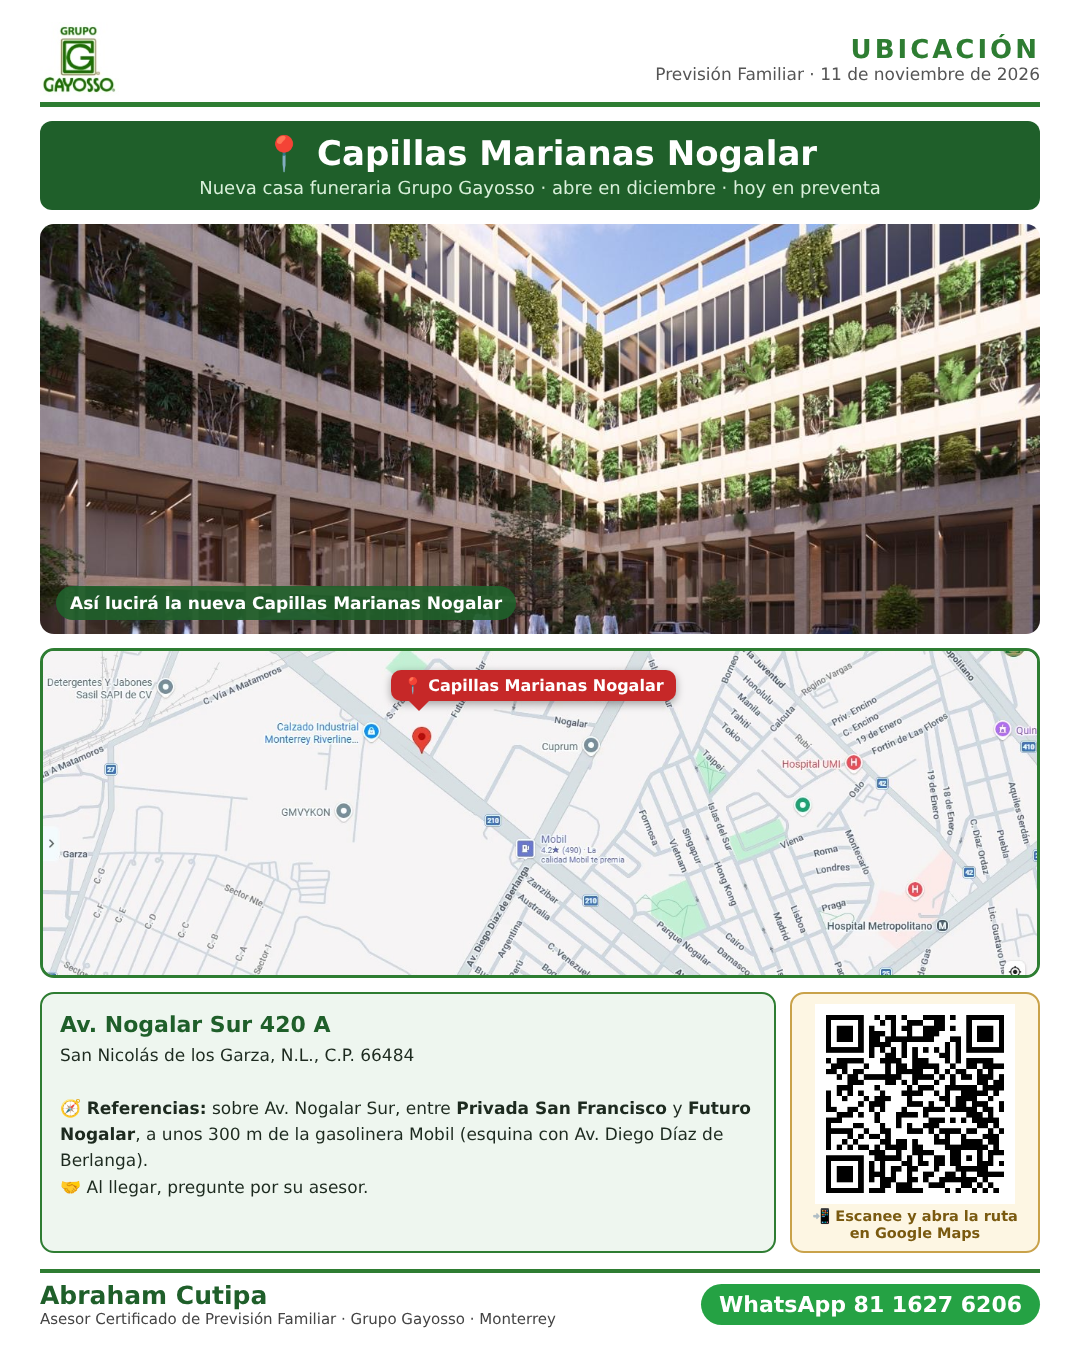
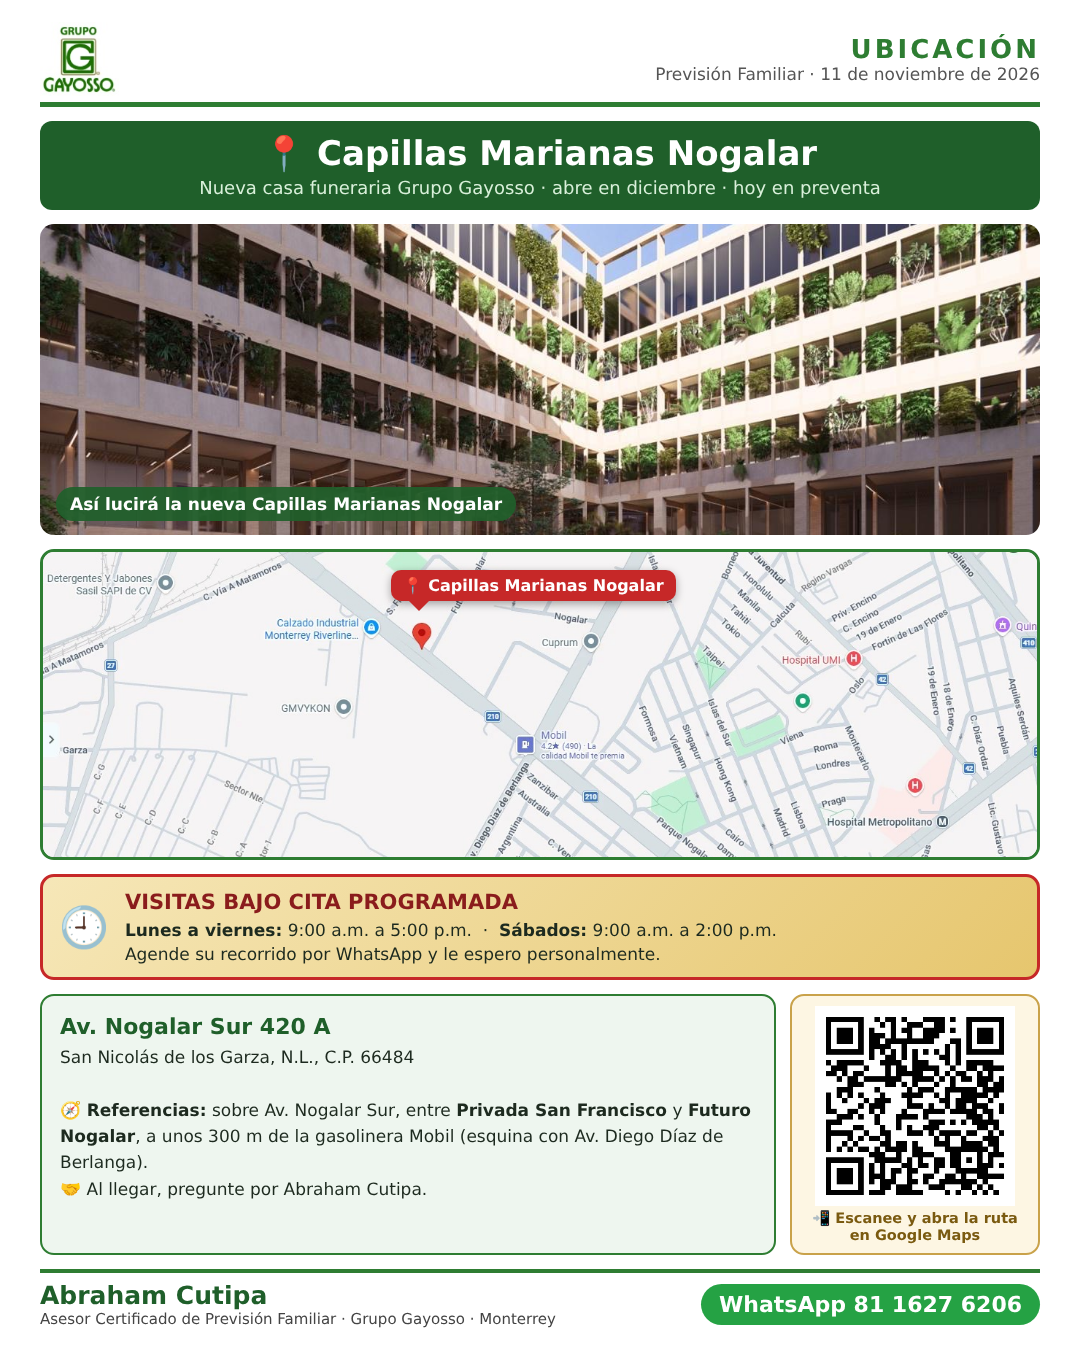
Ubicación Nogalar: horario de visitas bajo cita
Claude-Session: https://claude.ai/code/session_01PccRGVGwaaPKDitcWkgoNs

diff --git a/propuesta/ubicacion_nogalar.html b/propuesta/ubicacion_nogalar.html
@@ -4,7 +4,7 @@
 .top{display:flex;align-items:center;justify-content:space-between;border-bottom:5px solid #2e7d32;padding-bottom:6px}.top img{height:74px}
 .top .k{font-size:26px;font-weight:bold;color:#2e7d32;letter-spacing:3px;text-align:right}.top .d{font-size:17px;color:#555;text-align:right}
 .band{background:#1f5f2a;color:#fff;border-radius:12px;padding:12px;text-align:center}.band .t{font-size:34px;font-weight:bold}.band .s{font-size:18px;color:#d9f0da;margin-top:4px}
-.ph{height:410px;border-radius:14px;overflow:hidden;position:relative}.ph img{width:100%;height:100%;object-fit:cover}
+.ph{height:330px;border-radius:14px;overflow:hidden;position:relative}.ph img{width:100%;height:100%;object-fit:cover}
 .tag{position:absolute;left:16px;bottom:14px;background:rgba(31,95,42,.92);color:#fff;font-weight:bold;font-size:17px;padding:7px 14px;border-radius:20px}
 .map{height:330px;border-radius:14px;overflow:hidden;border:3px solid #2e7d32;position:relative}.map img{width:100%;height:100%;object-fit:cover;object-position:40% 25%}
 .pin{position:absolute;left:calc(38% - 30px);top:6%;background:#c62828;color:#fff;font-weight:bold;font-size:16px;padding:6px 12px;border-radius:10px;box-shadow:0 3px 8px rgba(0,0,0,.35);white-space:nowrap}
@@ -20,8 +20,9 @@
 <div class="band"><div class="t">📍 Capillas Marianas Nogalar</div><div class="s">Nueva casa funeraria Grupo Gayosso · abre en diciembre · hoy en preventa</div></div>
 <div class="ph"><img src="nogalar_render_dia.jpg"><div class="tag">Así lucirá la nueva Capillas Marianas Nogalar</div></div>
 <div class="map"><img src="nogalar_mapa.jpg"><div class="pin">📍 Capillas Marianas Nogalar</div></div>
+<div style="background:linear-gradient(135deg,#f6e7b8,#e6c66e);border:3px solid #c62828;border-radius:14px;padding:10px 16px;display:flex;align-items:center;gap:16px"><div style="font-size:40px">🕘</div><div style="font-size:17px;line-height:1.45"><b style="font-size:21px;color:#8a1c1c">VISITAS BAJO CITA PROGRAMADA</b><br><b>Lunes a viernes:</b> 9:00 a.m. a 5:00 p.m. &nbsp;·&nbsp; <b>Sábados:</b> 9:00 a.m. a 2:00 p.m.<br>Agende su recorrido por WhatsApp y le espero personalmente.</div></div>
 <div class="row">
- <div class="addr"><b class="t">Av. Nogalar Sur 420 A</b><br>San Nicolás de los Garza, N.L., C.P. 66484<br><br>🧭 <b>Referencias:</b> sobre Av. Nogalar Sur, entre <b>Privada San Francisco</b> y <b>Futuro Nogalar</b>, a unos 300 m de la gasolinera Mobil (esquina con Av. Diego Díaz de Berlanga).<br>🤝 Al llegar, pregunte por su asesor.</div>
+ <div class="addr"><b class="t">Av. Nogalar Sur 420 A</b><br>San Nicolás de los Garza, N.L., C.P. 66484<br><br>🧭 <b>Referencias:</b> sobre Av. Nogalar Sur, entre <b>Privada San Francisco</b> y <b>Futuro Nogalar</b>, a unos 300 m de la gasolinera Mobil (esquina con Av. Diego Díaz de Berlanga).<br>🤝 Al llegar, pregunte por Abraham Cutipa.</div>
  <div class="qr"><img src="nogalar_qr.png">📲 Escanee y abra la ruta en Google Maps</div>
 </div>
 <div class="foot"><div><div class="n">Abraham Cutipa</div><div class="r">Asesor Certificado de Previsión Familiar · Grupo Gayosso · Monterrey</div></div><div class="w">WhatsApp 81 1627 6206</div></div>

diff --git a/CLAUDE.md b/CLAUDE.md
@@ -324,7 +324,7 @@ Usar SIEMPRE en imágenes y textos de propuesta (columna lateral "¿Qué incluye
 ## Direcciones Gayosso Monterrey y cobertura nacional (usar en propuestas cuando se requiera)
 
 - *Capillas Marianas* (agencia GCM8, Agencia A): Av. Lázaro Cárdenas No. 1005 Pte., Col. Loma Larga, San Pedro Garza García, N.L. (la presentación oficial de Gayosso usa C.P. 64710; antes teníamos 66220: usar 64710).
-- *Capillas Marianas Nogalar* ("Marianas Nogalar", nueva casa funeraria, APERTURA DICIEMBRE 2026; ya se puede visitar con el asesor). Dirección OFICIAL (presentación Gayosso 2026-11-06): *Av. Nogalar Sur 420 A, San Nicolás de los Garza, C.P. 66484, N.L.* UBICACIÓN EXACTA (pin del usuario 2026-11-11): 25°43'04.5"N 100°17'11.7"W = 25.7179279, -100.2865906; liga para clientes: https://www.google.com/maps?q=25.7179279,-100.2865906 (usar SIEMPRE esta en vez de búsquedas por dirección). Referencias: sobre Av. Nogalar Sur entre Privada San Francisco y Futuro Nogalar, ~300 m de la gasolinera Mobil (esq. Av. Diego Díaz de Berlanga). Imagen de ubicación con QR: propuesta/ubicacion_nogalar.html. (antes usábamos "#440, entre Futuro Nogalar y Privada San Francisco": corregir a 420 A). Argumento en visitas: conocer las dos instalaciones (Capillas Marianas y la nueva Nogalar).
+- *Capillas Marianas Nogalar* ("Marianas Nogalar", nueva casa funeraria, APERTURA DICIEMBRE 2026; ya se puede visitar con el asesor). Dirección OFICIAL (presentación Gayosso 2026-11-06): *Av. Nogalar Sur 420 A, San Nicolás de los Garza, C.P. 66484, N.L.* UBICACIÓN EXACTA (pin del usuario 2026-11-11): 25°43'04.5"N 100°17'11.7"W = 25.7179279, -100.2865906; liga para clientes: https://www.google.com/maps?q=25.7179279,-100.2865906 (usar SIEMPRE esta en vez de búsquedas por dirección). Referencias: sobre Av. Nogalar Sur entre Privada San Francisco y Futuro Nogalar, ~300 m de la gasolinera Mobil (esq. Av. Diego Díaz de Berlanga). Imagen de ubicación con QR: propuesta/ubicacion_nogalar.html. VISITAS BAJO CITA PROGRAMADA: lunes a viernes 9:00–17:00, sábados 9:00–14:00 (dato del usuario 2026-11-11). (antes usábamos "#440, entre Futuro Nogalar y Privada San Francisco": corregir a 420 A). Argumento en visitas: conocer las dos instalaciones (Capillas Marianas y la nueva Nogalar).
 - *Cementerio Jardines del Descanso* (oficina CJ04): Calle de la Meza No. 7650, Col. La Estanzuela, C.P. 64988, Monterrey, N.L. Tel. (81) 8317 8505, abierto todos los días de 5:00 a 18:00.
 - *Oficinas administrativas*: Aramberri No. 1115 Ote., esq. Diego de Montemayor, Col. Centro, Monterrey, N.L. Tel. (81) 8173 5469. L–V 9:00–13:00 y 15:00–18:00; sábados 9:00–13:00.
 - *Oficinas telemarketing*: Hidalgo #1911, Col. Obispado, entre Verlaine y Baudelaire.
